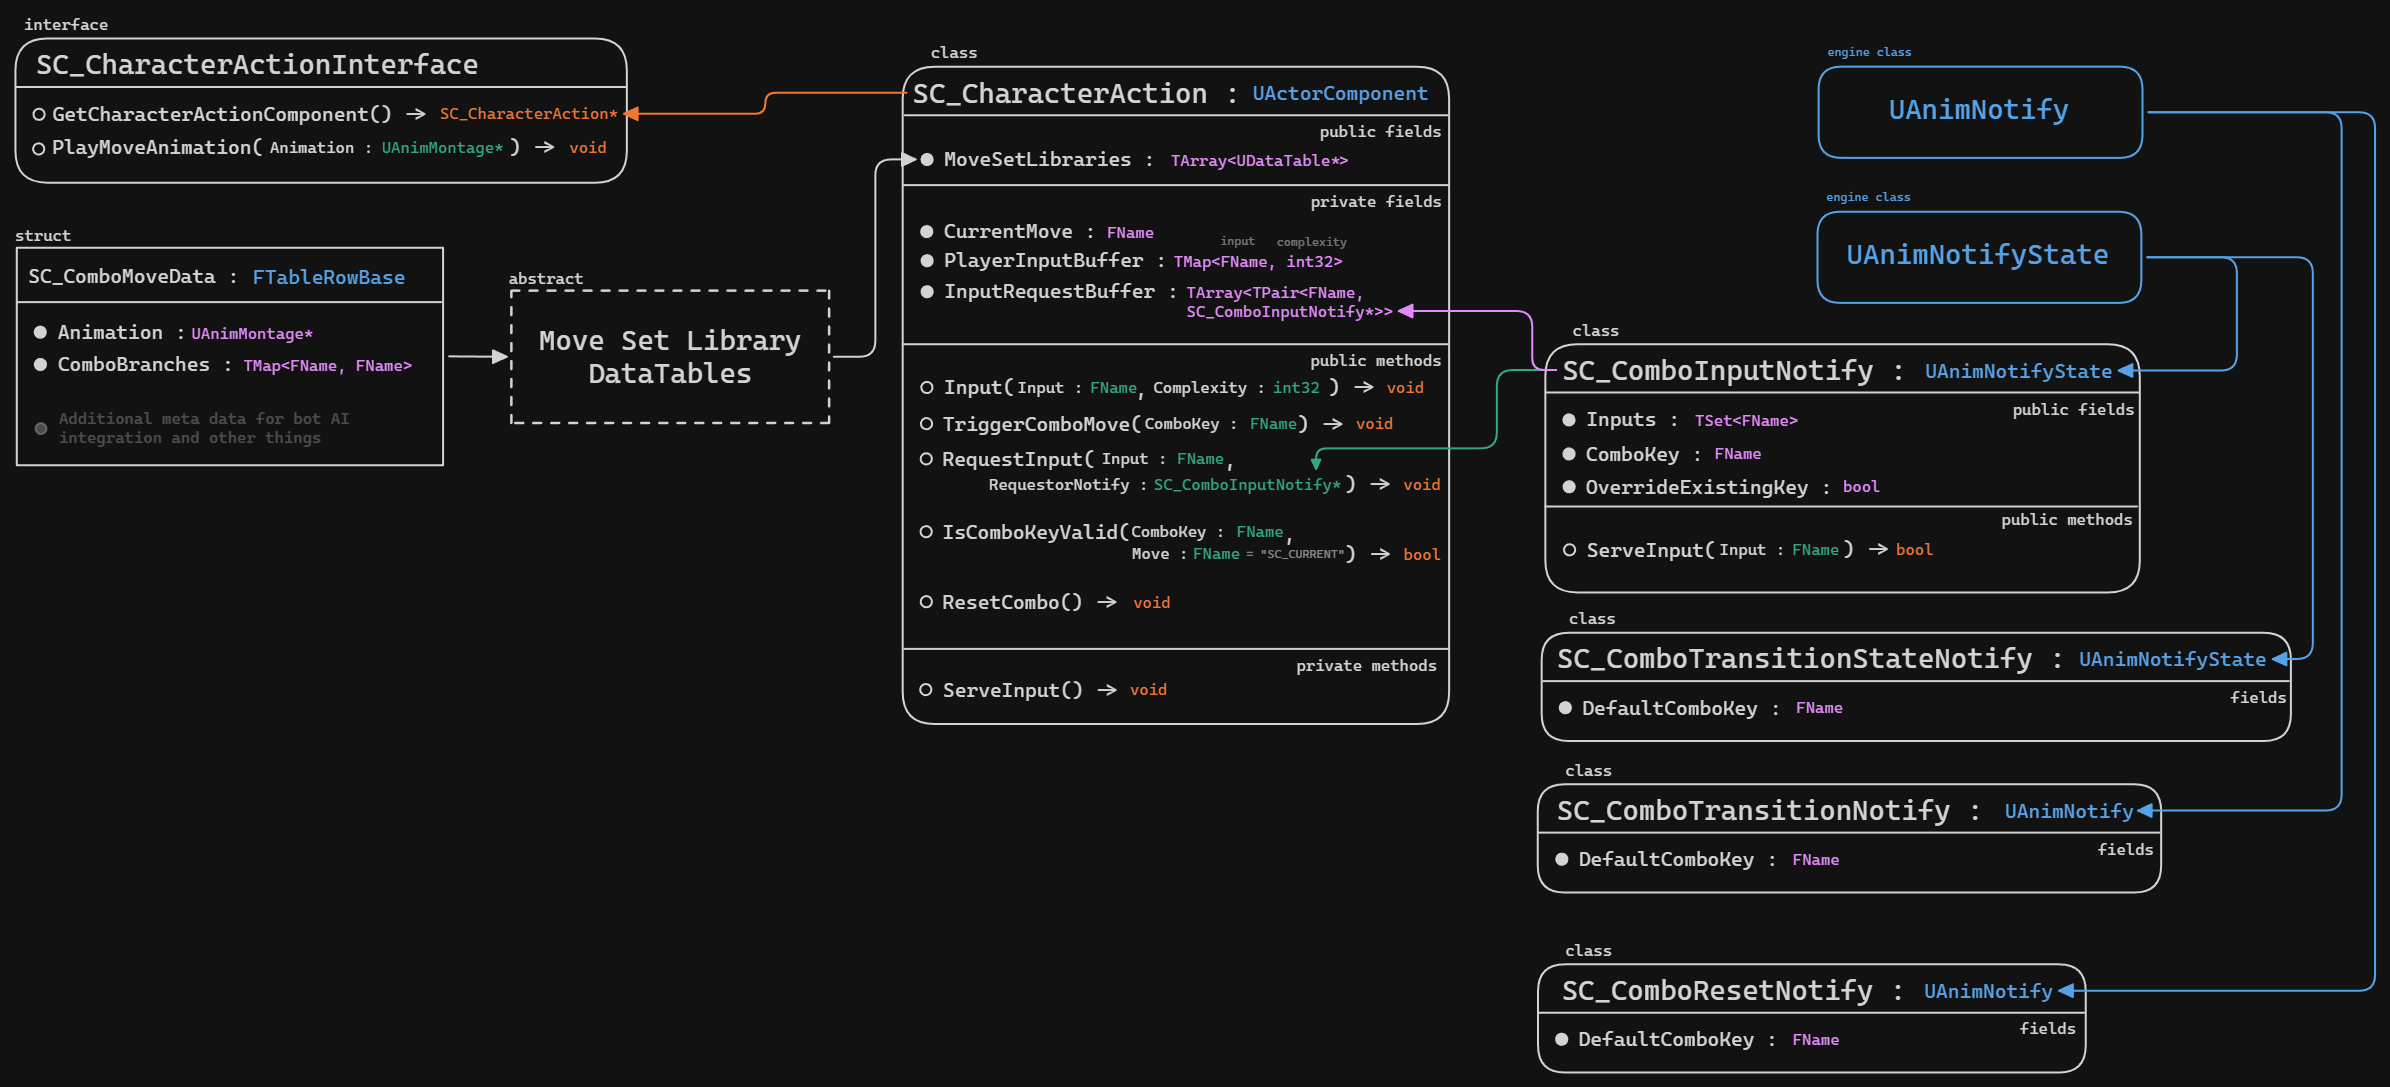
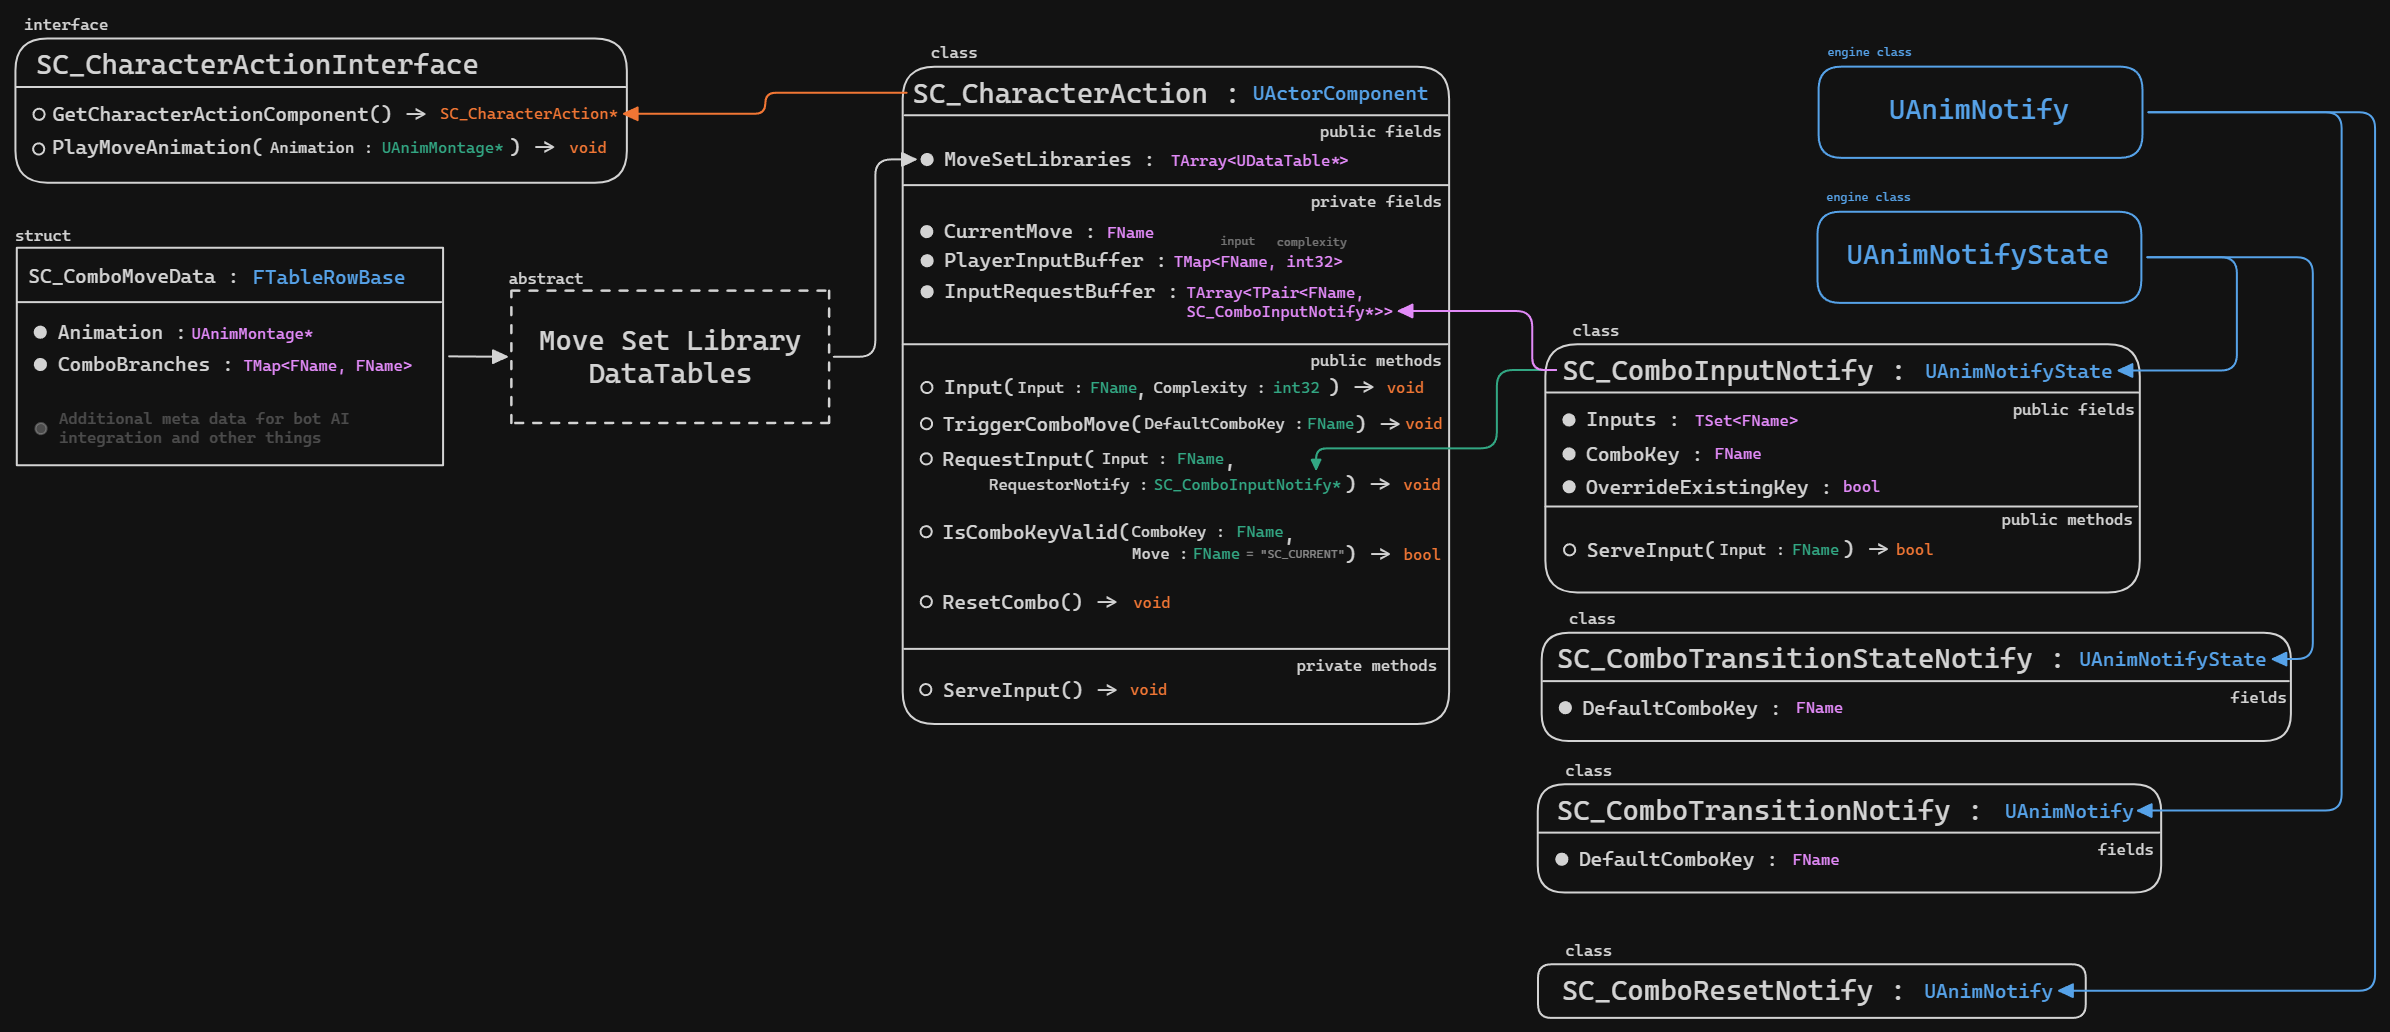
[DOCS] Code design tweaks

diff --git a/Documentation/Code Design Diagram.md b/Documentation/Code Design Diagram.md
@@ -62,7 +62,7 @@ void ^Uf3iVJKt
 
 TriggerComboMove( ^gIQfavbJ
 
-ComboKey : ^6H6GFge0
+DefaultComboKey : ^6H6GFge0
 
 FName ^zgSPpE3J
 
@@ -207,12 +207,6 @@ SC_ComboResetNotify : ^57iJiDXy
 
 UAnimNotify ^GOTPBoxd
 
-fields ^JzDa2qxM
-
-DefaultComboKey : ^h4Xr55Mm
-
-FName ^IANZQrvW
-
 ResetCombo() -> ^fHxixpQR
 
 void ^IVc5V341
@@ -342,254 +336,246 @@ DghAP/NbBTbG7BJK2gM4CIdLRHPQm0OYNEdCu3T1gUHMSHL3DXQG60FYTJvFdybXbwb06BAM2D+CVbg9
 
[1 lines of base64/hex data omitted]
 
[2 lines of base64/hex data omitted]
 
[2 lines of base64/hex data omitted]
 
[2 lines of base64/hex data omitted]
 
[2 lines of base64/hex data omitted]
 
[2 lines of base64/hex data omitted]
 
[2 lines of base64/hex data omitted]
 
[2 lines of base64/hex data omitted]
 
[2 lines of base64/hex data omitted]
 
[2 lines of base64/hex data omitted]
 
[2 lines of base64/hex data omitted]
 
[2 lines of base64/hex data omitted]
 
[2 lines of base64/hex data omitted]
 
[2 lines of base64/hex data omitted]
 
[2 lines of base64/hex data omitted]
 
[2 lines of base64/hex data omitted]
 
[2 lines of base64/hex data omitted]
 
[2 lines of base64/hex data omitted]
 
[2 lines of base64/hex data omitted]
 
[2 lines of base64/hex data omitted]
 
[2 lines of base64/hex data omitted]
 
[2 lines of base64/hex data omitted]
 
[2 lines of base64/hex data omitted]
 
[2 lines of base64/hex data omitted]
 
[2 lines of base64/hex data omitted]
 
[2 lines of base64/hex data omitted]
 
[2 lines of base64/hex data omitted]
 
[2 lines of base64/hex data omitted]
 
[2 lines of base64/hex data omitted]
 
[2 lines of base64/hex data omitted]
 
[2 lines of base64/hex data omitted]
 
[2 lines of base64/hex data omitted]
 
[2 lines of base64/hex data omitted]
 
[2 lines of base64/hex data omitted]
 
[2 lines of base64/hex data omitted]
 
[2 lines of base64/hex data omitted]
 
[2 lines of base64/hex data omitted]
 
[2 lines of base64/hex data omitted]
 
[2 lines of base64/hex data omitted]
 
[2 lines of base64/hex data omitted]
 
[2 lines of base64/hex data omitted]
 
[2 lines of base64/hex data omitted]
 
[2 lines of base64/hex data omitted]
 
[2 lines of base64/hex data omitted]
 
[2 lines of base64/hex data omitted]
 
[2 lines of base64/hex data omitted]
 
[2 lines of base64/hex data omitted]
 
[2 lines of base64/hex data omitted]
 
[2 lines of base64/hex data omitted]
 
[2 lines of base64/hex data omitted]
 
[2 lines of base64/hex data omitted]
 
[2 lines of base64/hex data omitted]
 
[2 lines of base64/hex data omitted]
 
[2 lines of base64/hex data omitted]
 
[2 lines of base64/hex data omitted]
 
[2 lines of base64/hex data omitted]
 
[2 lines of base64/hex data omitted]
 
[2 lines of base64/hex data omitted]
 
[2 lines of base64/hex data omitted]
 
[2 lines of base64/hex data omitted]
 
[2 lines of base64/hex data omitted]
 
[2 lines of base64/hex data omitted]
 
[2 lines of base64/hex data omitted]
 
[2 lines of base64/hex data omitted]
 
[2 lines of base64/hex data omitted]
 
[2 lines of base64/hex data omitted]
 
[2 lines of base64/hex data omitted]
 
[2 lines of base64/hex data omitted]
 
[2 lines of base64/hex data omitted]
 
[2 lines of base64/hex data omitted]
 
[2 lines of base64/hex data omitted]
 
[2 lines of base64/hex data omitted]
 
[2 lines of base64/hex data omitted]
 
[2 lines of base64/hex data omitted]
 
[2 lines of base64/hex data omitted]
 
[2 lines of base64/hex data omitted]
 
[2 lines of base64/hex data omitted]
 
[2 lines of base64/hex data omitted]
 
[2 lines of base64/hex data omitted]
 
[2 lines of base64/hex data omitted]
 
[2 lines of base64/hex data omitted]
 
[2 lines of base64/hex data omitted]
 
[2 lines of base64/hex data omitted]
 
[2 lines of base64/hex data omitted]
 
[2 lines of base64/hex data omitted]
 
[2 lines of base64/hex data omitted]
 
[2 lines of base64/hex data omitted]
 
[2 lines of base64/hex data omitted]
 
[2 lines of base64/hex data omitted]
 
[2 lines of base64/hex data omitted]
 
[2 lines of base64/hex data omitted]
 
[2 lines of base64/hex data omitted]
 
[2 lines of base64/hex data omitted]
 
[2 lines of base64/hex data omitted]
 
[2 lines of base64/hex data omitted]
 
[2 lines of base64/hex data omitted]
 
[2 lines of base64/hex data omitted]
 
[2 lines of base64/hex data omitted]
 
[2 lines of base64/hex data omitted]
 
[2 lines of base64/hex data omitted]
 
[2 lines of base64/hex data omitted]
 
[2 lines of base64/hex data omitted]
 
[2 lines of base64/hex data omitted]
 
[2 lines of base64/hex data omitted]
 
[2 lines of base64/hex data omitted]
 
[2 lines of base64/hex data omitted]
 
[2 lines of base64/hex data omitted]
 
[2 lines of base64/hex data omitted]
 
[2 lines of base64/hex data omitted]
 
[2 lines of base64/hex data omitted]
 
[2 lines of base64/hex data omitted]
 
[2 lines of base64/hex data omitted]
 
[2 lines of base64/hex data omitted]
 
[2 lines of base64/hex data omitted]
 
[2 lines of base64/hex data omitted]
 
[2 lines of base64/hex data omitted]
 
[2 lines of base64/hex data omitted]
 
[2 lines of base64/hex data omitted]
 
[2 lines of base64/hex data omitted]
 
[2 lines of base64/hex data omitted]
 
[2 lines of base64/hex data omitted]
 
[1 lines of base64/hex data omitted]
-
[1 lines of base64/hex data omitted]
-
[1 lines of base64/hex data omitted]
-
[1 lines of base64/hex data omitted]
-
-GOowulJCwKeK+BnwEAA=
[1 lines of base64/hex data omitted]
 ```
 %%
